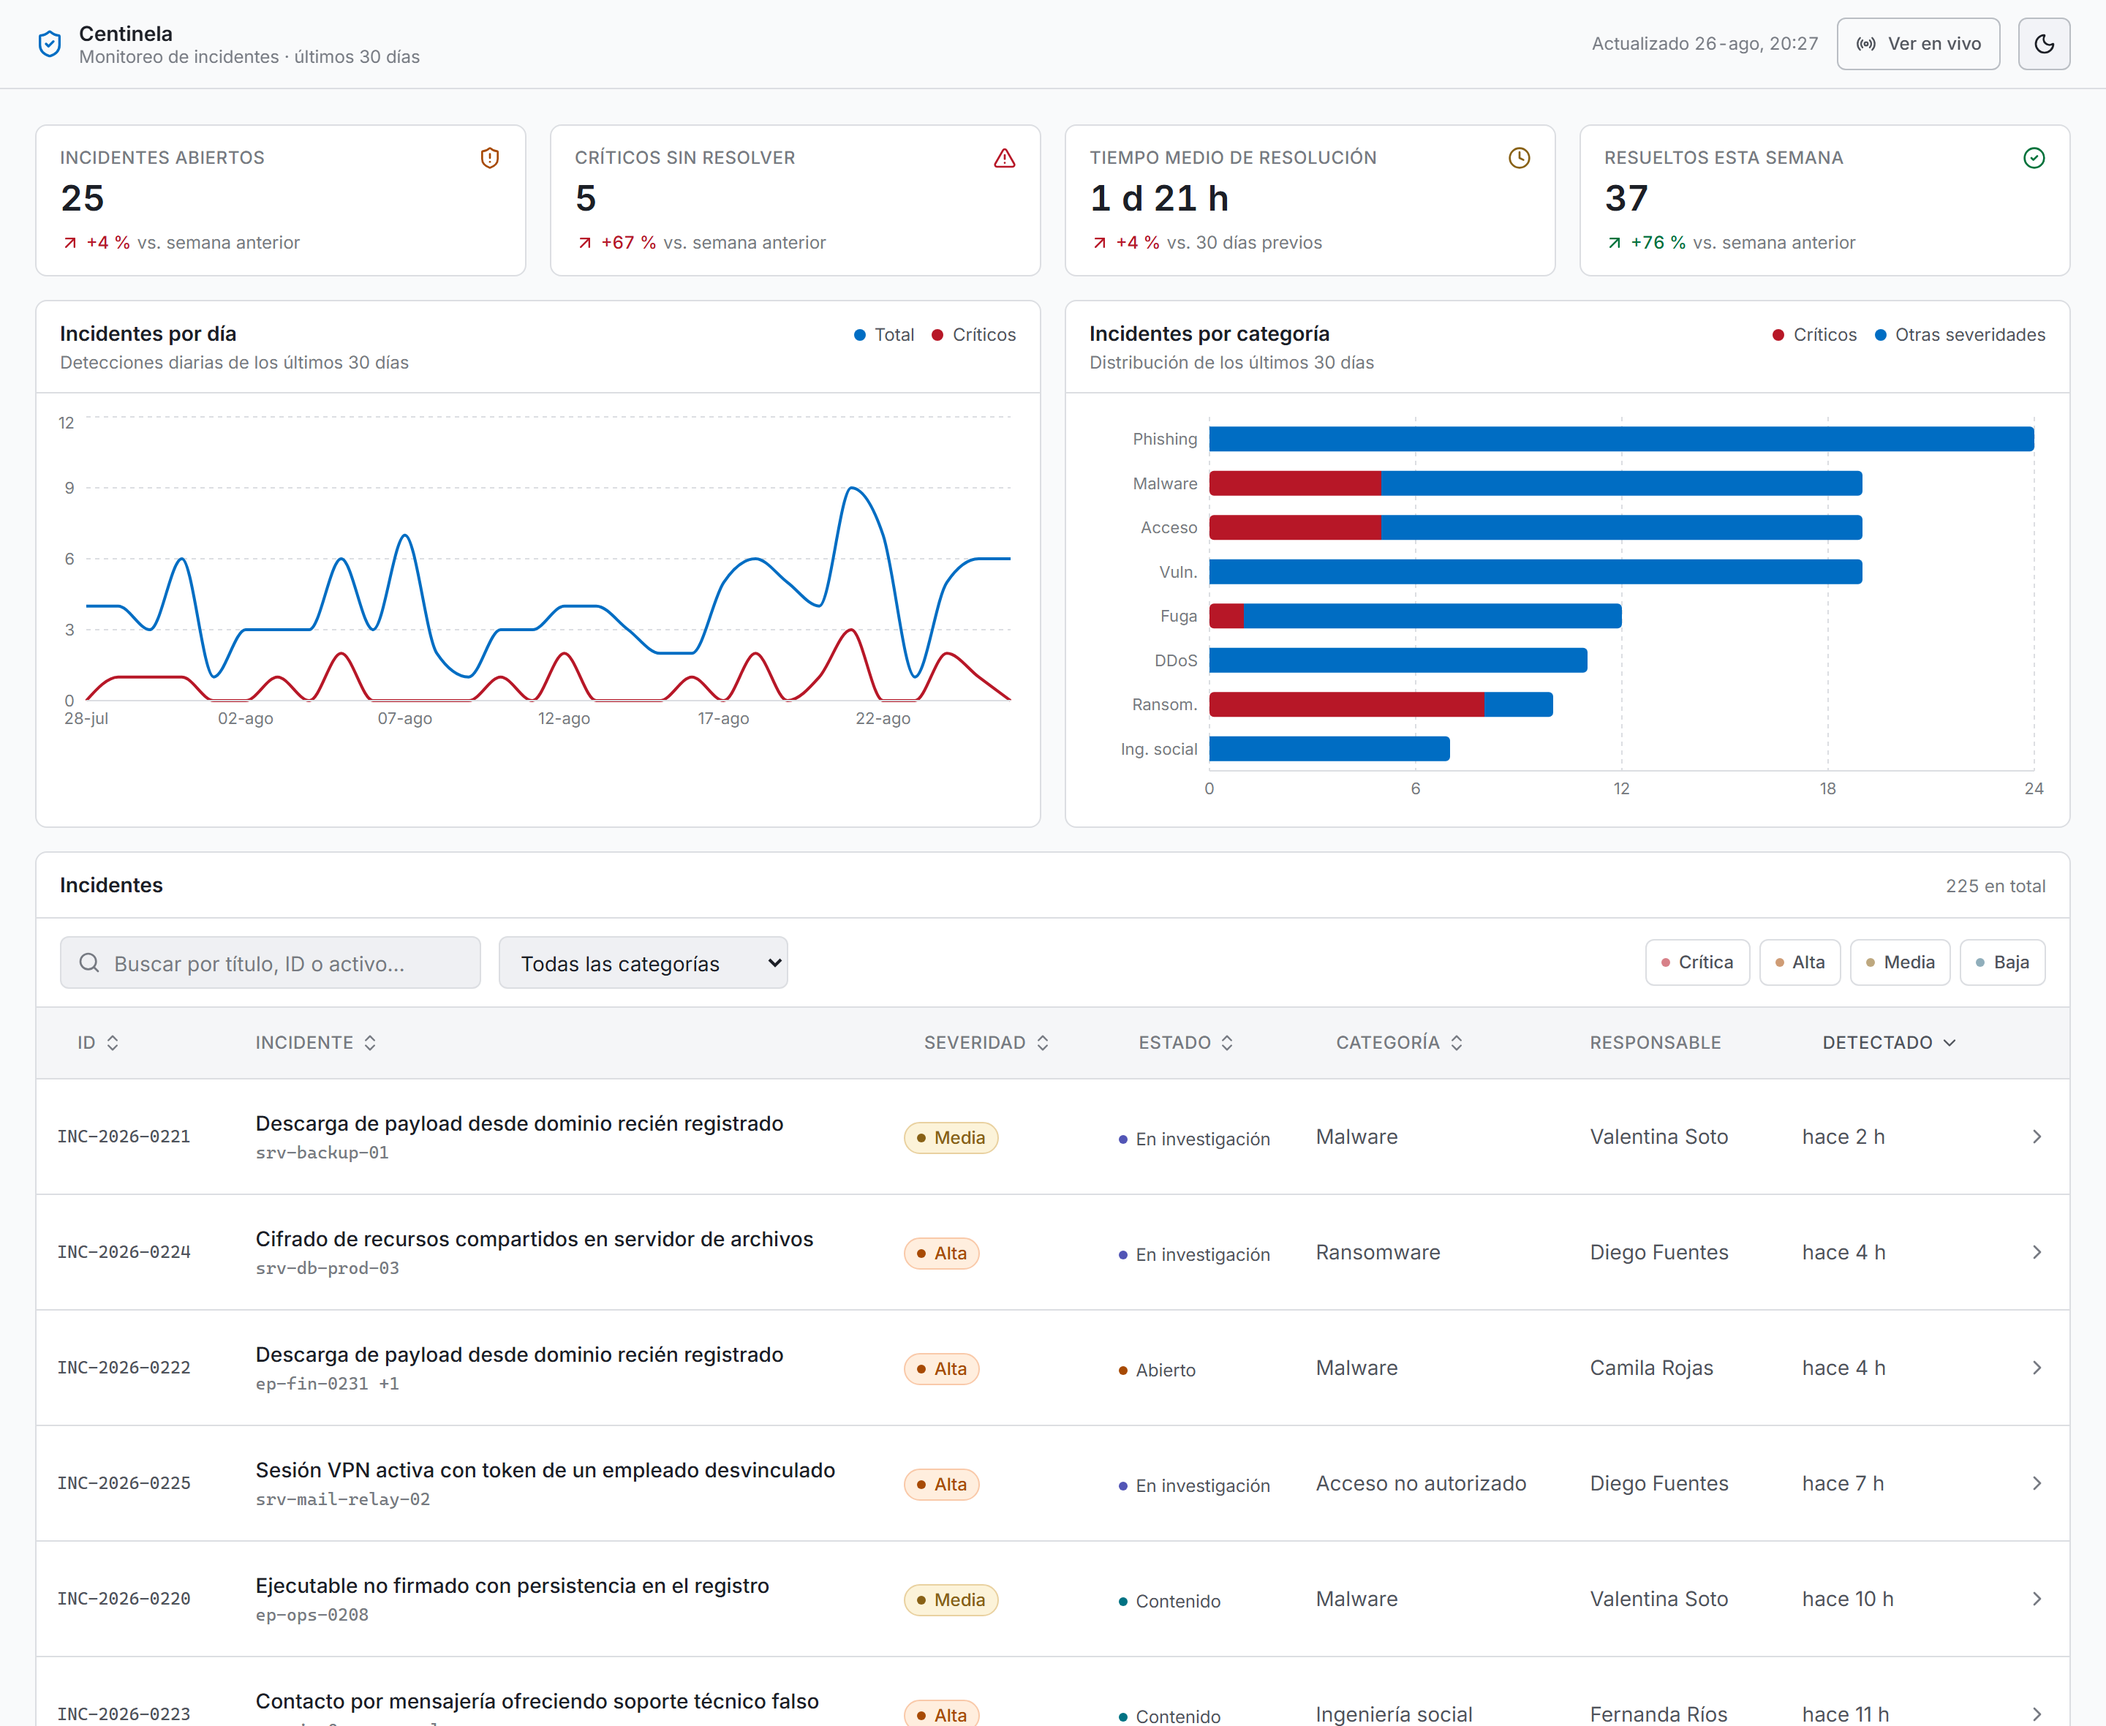
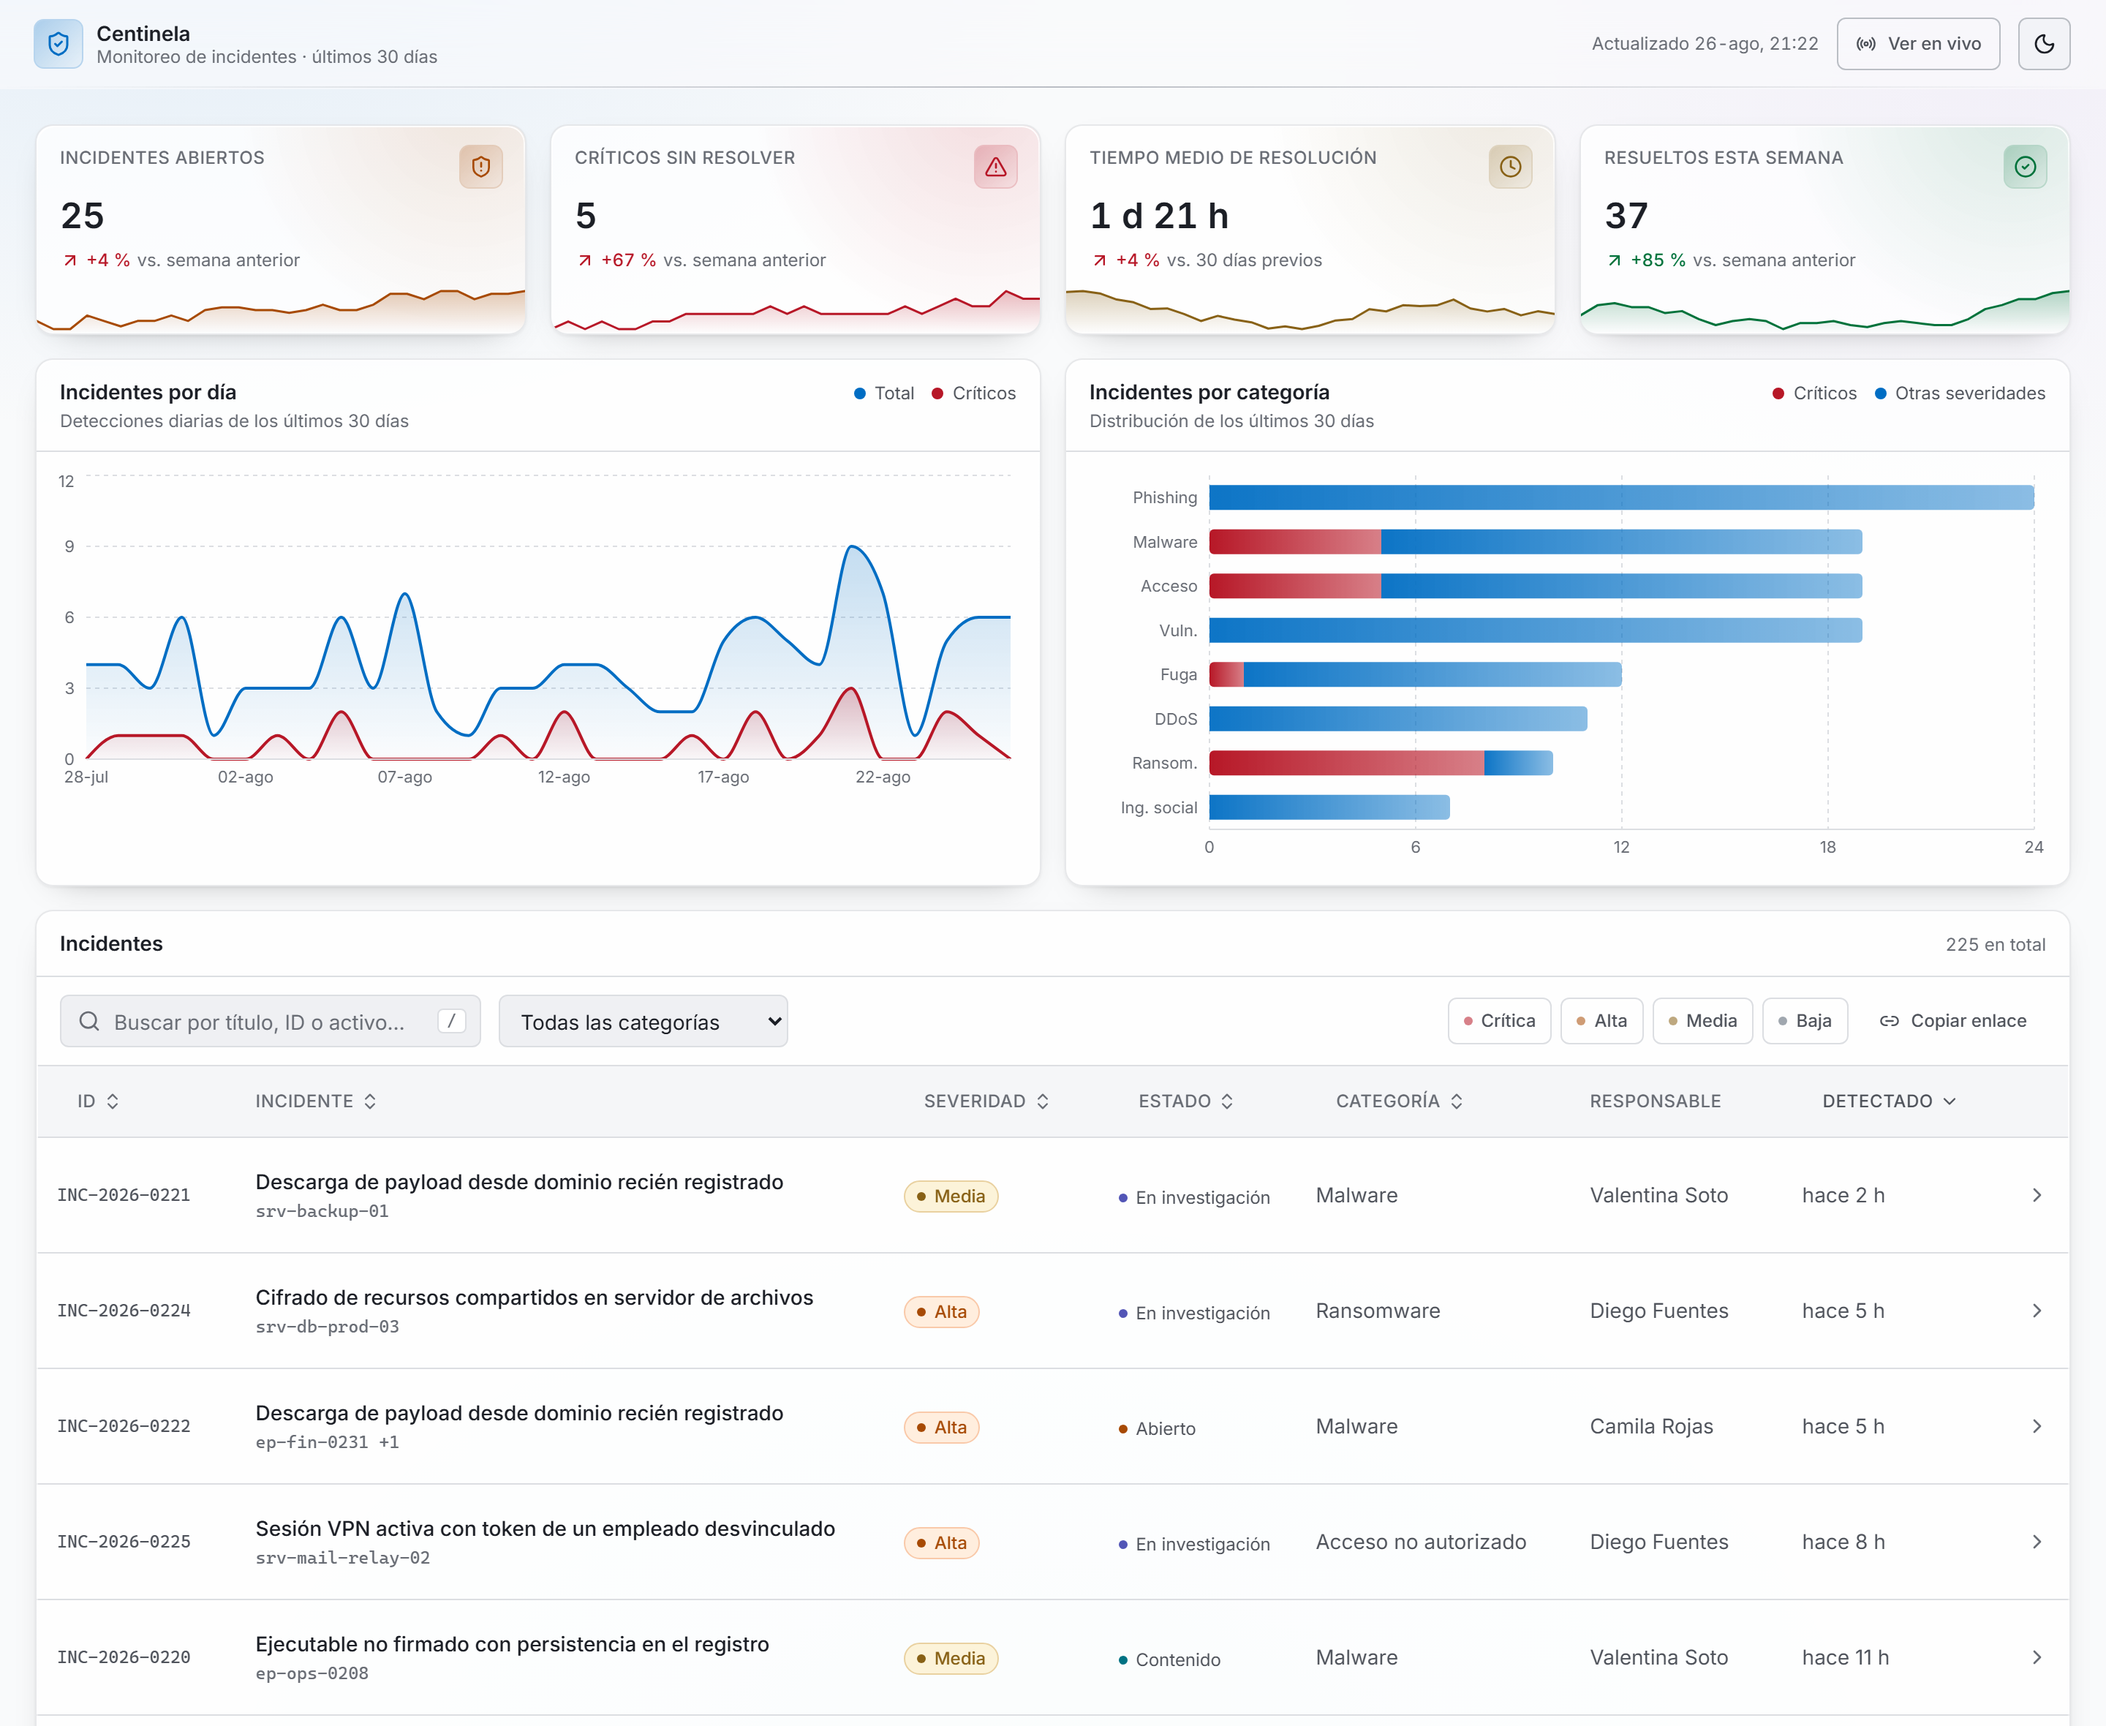
Verifica el contraste y lo nuevo de la interfaz
La suite pasa de 74 a 95 comprobaciones. Las que importan:

- El contraste de los grises secundarios se mide en el navegador, en
  ambos temas, contra las tres superficies. Era el fallo que no se ve
  mirando, y ahora una futura retoque de la paleta no puede
  reintroducirlo en silencio. La paleta está en oklch y
  getComputedStyle la devuelve sin convertir, así que la conversión a
  sRGB se delega en el navegador pintando el color en un canvas de un
  píxel, en vez de reimplementarla a mano.
- Con prefers-reduced-motion, el contador ya está en su valor final
  antes de que la animación hubiera terminado de existir.
- La cifra de una tarjeta de indicador y el recuento que produce su
  filtro tienen que coincidir: si no, el indicador y su filtro estarían
  midiendo cosas distintas.
- Recorrer el panel con las flechas deja una sola entrada de historial.

Añade la captura del filtro desde un indicador y regenera el resto.

diff --git a/README.md b/README.md
@@ -100,6 +100,26 @@ tokens están en [`src/index.css`](src/index.css), en dos bloques:
 
 No hay un solo color escrito a mano en un componente.
 
+### El vidrio y la luz salen de tokens, no de valores sueltos
+
+Las superficies son translúcidas con desenfoque de lo que hay detrás, y detrás
+hay tres focos de luz fijos —`--ambient-1..3`— anclados al viewport. Si el
+fondo scrollease, el degradado se leería como contenido en movimiento en vez de
+como iluminación de la escena.
+
+El detalle que más cambia la percepción es el más pequeño: un filo de 1px en el
+borde superior de cada tarjeta, con degradado, que simula la luz cayendo desde
+arriba. Se dibuja con una máscara que vacía el relleno y deja sólo el contorno,
+porque así el degradado sigue el radio de las esquinas en lugar de cortarse en
+recto.
+
+Los degradados están **atados a un significado**, no puestos por decorar: el
+halo de cada indicador lleva el color de lo que mide, el relleno bajo las áreas
+se desvanece para que dos series superpuestas no formen un bloque opaco, y el
+de las barras da al extremo un borde suave que evita que ocho longitudes
+distintas se lean como un macizo de color. La regla que los mantiene a raya es
+esa: si un degradado no comunica nada, no entra.
+
 ### Oscuro por defecto, sin destello
 
 Los tokens oscuros viven en `:root` y el tema claro es un override con la clase
@@ -108,6 +128,20 @@ ya se ve como debe verse. Un script mínimo en `index.html` aplica `.light`
 antes del primer pintado para quien haya elegido el tema claro.
 
 ![Vista principal en tema claro](docs/dashboard-claro.png)
+
+### El contraste se mide, no se estima
+
+El tema claro se había derivado del oscuro por simetría, y ahí se coló un fallo
+que no se ve mirando: `--text-muted` quedaba en **3.76:1** sobre la cabecera de
+la tabla, por debajo del 4.5:1 que pide WCAG AA para texto de 12px. Y ese gris
+no está en adornos — son los encabezados de columna, las marcas de tiempo y la
+comparación de cada indicador.
+
+Ahora se mide en el navegador dentro de la suite de verificación, con los
+colores ya resueltos, en ambos temas. La paleta está escrita en `oklch` y
+`getComputedStyle` la devuelve sin convertir, así que la conversión a sRGB se
+delega en el propio navegador pintando el color en un canvas de un píxel: la
+alternativa era reimplementar la conversión a mano y equivocarse en ella.
 
 ### La severidad nunca depende sólo del color
 
@@ -154,6 +188,10 @@ Dos detalles que hacen la diferencia entre implementarlo y hacerlo bien:
   direcciones es editable: `?sev=inventada&p=-5` se descarta y cae a los
   valores por defecto, en vez de propagar un tipo mentiroso a la aplicación.
 
+Como todo eso es invisible para quien abre el tablero por primera vez, hay un
+botón **"Copiar enlace"** junto a los filtros. Sin él, nadie tiene motivo para
+mirar la barra de direcciones y descubrir que la vista se puede compartir.
+
 ### Filtrar desde los gráficos
 
 Un clic en una barra filtra la tabla por esa categoría; un clic en un punto de
@@ -176,6 +214,34 @@ el teclado, lo anuncian los lectores de pantalla— y por eso es de selección
 intermedios que reconciliar. La severidad sigue siendo de selección múltiple,
 porque filtrar por "crítica y alta" a la vez sí es triaje corriente.
 
+### Los indicadores son el filtro más directo
+
+Pulsar una tarjeta recorta la tabla a lo que esa tarjeta cuenta. Eran la pieza
+más visible del tablero y la única inerte: se leía "5 críticos sin resolver" y
+no había forma de preguntar cuáles.
+
+![Tabla filtrada desde una tarjeta de indicador](docs/filtro-desde-indicador.png)
+
+Tres cosas que esto obligó a resolver:
+
+- **Hacía falta un filtro por estado**, que no existía. Es de selección
+  múltiple porque el caso que importa —"sin resolver"— son tres estados a la
+  vez, no uno. No tiene control propio en la barra: se activa desde las
+  tarjetas, que son botones y por tanto alcanzables con el teclado, y se quita
+  desde su chip.
+- **El conjunto reemplaza, no combina.** Pulsar "Críticos sin resolver" lleva
+  exactamente a esos, no a esos intersecados con lo que quedara de una búsqueda
+  anterior.
+- **El tiempo medio de resolución no es un botón.** Es un promedio, no un
+  conjunto de incidentes, y su recorte natural —"resueltos"— ya lo abre la
+  tarjeta de al lado. Dos botones que llevan al mismo sitio no son un atajo,
+  son una duda.
+
+Cada tarjeta lleva además la curva de su propia métrica en los 30 días. Un
+"+67 %" da la dirección pero no la forma: no distingue una subida sostenida
+durante un mes de un pico de ayer sobre un mes plano. Son la misma cifra y no
+significan lo mismo.
+
 ### Modo en vivo
 
 Un interruptor en la cabecera hace entrar incidentes cada pocos segundos: la
@@ -193,6 +259,39 @@ y el scroll no salta. Hay una comprobación dedicada a eso.
 dependen las capturas y las comprobaciones; si el flujo empezara solo, ninguna
 de las dos cosas sería reproducible. El modo en vivo es una capa opcional sobre
 un cimiento que no se mueve.
+
+Con el flujo activo, la fila que entra lo hace con un barrido de luz que corre
+una sola vez. Sólo se anima la llegada, no cada repintado: filtrar reordena las
+25 filas, y animarlas todas convertiría cada pulsación en un espectáculo.
+
+### Los avisos flotantes son sólo para lo crítico
+
+Y esa restricción es la decisión entera. Un aviso por cada incidente convierte
+la esquina de la pantalla en una cascada que se aprende a ignorar en treinta
+segundos, y a partir de ahí el aviso no avisa de nada. Limitado a la severidad
+que obliga a interrumpir lo que estabas haciendo, que aparezca uno vuelve a
+significar algo.
+
+Se anuncian con `role="status"`, que es cortés: espera a que el lector de
+pantalla termine la frase en curso. `assertive` interrumpiría a media palabra a
+alguien que está leyendo una fila, y el aviso no es una alarma de evacuación —
+el incidente ya está en la tabla y en los indicadores; aquí sólo se adelanta.
+
+### El movimiento se puede apagar entero
+
+Todo lo que se mueve está bajo `motion-safe` o dentro del bloque global de
+`prefers-reduced-motion`. Dos casos no se arreglan solos con CSS y se resuelven
+en el código:
+
+- **El contador de los indicadores** lo interpola JavaScript, así que con
+  movimiento reducido devuelve el valor final directamente, sin un solo
+  fotograma intermedio. Un número cambiando es justamente el tipo de movimiento
+  que molesta.
+- **Las animaciones de Recharts** también las calcula JavaScript y no las
+  alcanza ninguna regla de estilo: se apagan pasando `isAnimationActive`.
+
+La suite lo comprueba cargando la página con `reducedMotion: 'reduce'` y
+leyendo la cifra antes de que la animación hubiera terminado de existir.
 
 ### El panel lateral es un `<dialog>` nativo
 
@@ -247,6 +346,17 @@ declara su `higherIsBetter`.
 - El interruptor del modo en vivo usa `aria-pressed`, y su latido va bajo
   `motion-safe`: quien pida menos movimiento ve el punto fijo, que sigue
   comunicando el estado.
+- Las tarjetas de indicador son botones con `aria-pressed`, así que el filtro
+  por estado tiene una ruta de teclado aunque no tenga control en la barra.
+- El contraste de los grises secundarios se **mide** en la suite, en ambos
+  temas, contra las tres superficies. Peor caso actual: 4.62:1.
+- Atajos: `/` enfoca la búsqueda —y no se dispara mientras se escribe en un
+  campo—; ← y → recorren incidentes dentro del panel sin cerrarlo. Los botones
+  de anterior y siguiente existen además del atajo: un atajo que no está
+  dibujado en ninguna parte no lo descubre nadie.
+- Recorrer el panel con las flechas usa `replaceState`, no `pushState`: ver diez
+  incidentes seguidos no debe dejar diez entradas que haya que deshacer una por
+  una para cerrarlo.
 
 ## Los datos
 
@@ -269,8 +379,15 @@ reflejan sólo el flujo real de entradas y cierres.
 ## Tipado
 
 `strict` (ya es el default en TypeScript 6) más `noUncheckedIndexedAccess`,
-`exactOptionalPropertyTypes` y `noImplicitOverride`. Sin `any` y sin
-aserciones de tipo en todo el proyecto.
+`exactOptionalPropertyTypes` y `noImplicitOverride`. Sin `any` en todo el
+proyecto.
+
+Hay **una** aserción de tipo, en `lib/cssVars.ts`. `CSSProperties` de React
+sólo declara propiedades conocidas, así que pasar `--rise-delay` como estilo en
+línea no tiene forma de tipificarse. Está aislada en una función de tres líneas
+cuya firma exige el prefijo `--`, en lugar de repartir `as CSSProperties` por
+los componentes: la conversión es correcta —React escribe cualquier clave que
+empiece por `--` tal cual en el nodo— y así hay un solo sitio donde mirar.
 
 Los identificadores del código están en inglés (`severity`, `critical`) y el
 texto visible en español. Las etiquetas viven sólo en `lib/catalog.ts`, así la
@@ -282,10 +399,16 @@ El build separa las dependencias en tres chunks para que el navegador conserve
 en caché lo que no cambia entre despliegues:
 
 ```
-index    48 kB  │ gzip:  15 kB   ← la aplicación
-react   190 kB  │ gzip:  60 kB
-vendor  378 kB  │ gzip: 109 kB   ← Recharts y sus dependencias
+index     70 kB  │ gzip:  22 kB   ← la aplicación
+react    190 kB  │ gzip:  60 kB
+vendor   384 kB  │ gzip: 111 kB   ← Recharts y sus dependencias
+css       45 kB  │ gzip:   8 kB
 ```
+
+Toda la capa visual —vidrio, halos, degradados, contador animado, foco que
+sigue al cursor, avisos flotantes— está escrita a mano. Una librería de
+animación habría costado unos 34 kB comprimidos para hacer lo que aquí hacen
+CSS y un `requestAnimationFrame`.
 
 ## Deploy en Vercel
 
